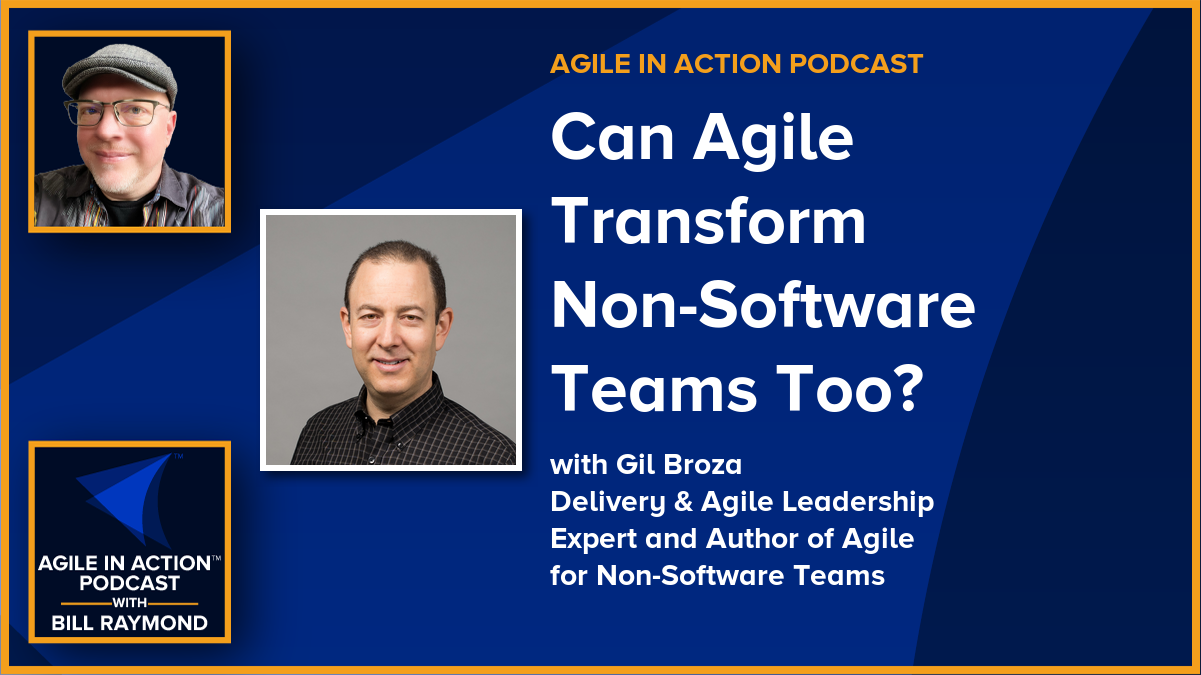
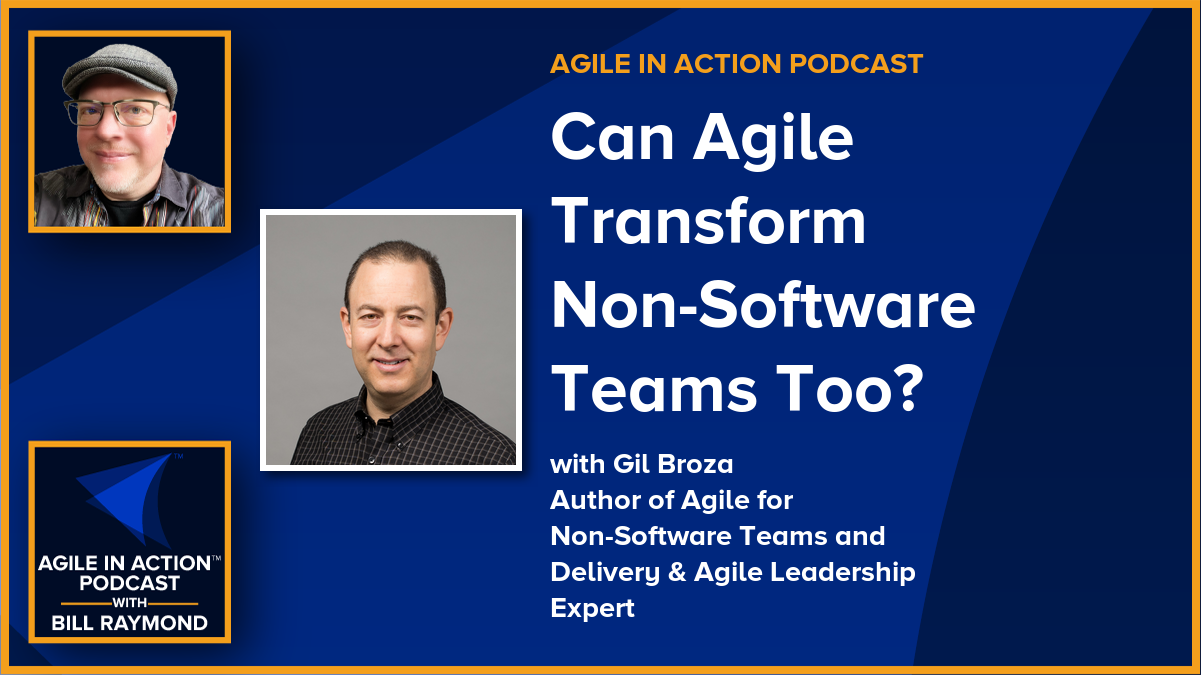
Jekyll build from Action

Changed region(s): [[0.4621, 0.6533, 0.7702, 0.9333]]

diff --git a/admin/index.html b/admin/index.html
@@ -39,7 +39,7 @@
 <h2 class="post-list-heading">Latest Agile in Action Podcast with Bill Raymond</h2>
 
 <ul class="post-list"><li><h3>Apr 16, 2024</h3><a href="/agile-in-action-podcast/2024/04/16/can-agile-transform-non-software-teams-too.html"><img src="/uploads/wf-featured-images/2024-04-16-can-agile-transform-non-software-teams-too.png" alt="Can Agile Transform Non-Software Teams Too?"></a>
-          <h3><a class="post-link" href="/agile-in-action-podcast/2024/04/16/can-agile-transform-non-software-teams-too.html">Can Agile Transform Non-Software Teams Too?</a></h3><strong>with </strong><span class="guest-name" itemprop="name">Gil Broza, Delivery &amp; Agile Leadership Expert and Author of Agile for Non-Software Teams</span><br>https://agileinaction.com/agile-in-action-podcast/2024/04/16/can-agile-transform-non-software-teams-too.html</li></ul><a href="/allpodcasts">See all podcasts >></a>
+          <h3><a class="post-link" href="/agile-in-action-podcast/2024/04/16/can-agile-transform-non-software-teams-too.html">Can Agile Transform Non-Software Teams Too?</a></h3><strong>with </strong><span class="guest-name" itemprop="name">Gil Broza, Author of Agile for Non-Software Teams and Delivery &amp; Agile Leadership Expert</span><br>https://agileinaction.com/agile-in-action-podcast/2024/04/16/can-agile-transform-non-software-teams-too.html</li></ul><a href="/allpodcasts">See all podcasts >></a>
 <p></p>
 
 <p class="rss-subscribe">subscribe <a href="https://feeds.libsyn.com/257606/rss?_ga=2.185818153.1879997348.1668636242-117077834.1667517838">via RSS</a></p>

diff --git a/agile-in-action-podcast/2024/04/16/can-agile-transform-non-software-teams-too.html b/agile-in-action-podcast/2024/04/16/can-agile-transform-non-software-teams-too.html
@@ -70,7 +70,7 @@
       <time class="dt-published" datetime="2024-04-16T00:00:00+00:00" itemprop="datePublished">Apr 16, 2024
       </time>• <span itemprop="author" itemscope itemtype="http://schema.org/Person"><span class="p-author h-card" itemprop="name">Bill Raymond</span></span></p>
   </header>
-      <h3>Gil Broza,&nbsp;Delivery & Agile Leadership Expert and Author of Agile for Non-Software Teams</h3>
+      <h3>Gil Broza,&nbsp;Author of Agile for Non-Software Teams and Delivery & Agile Leadership Expert</h3>
             <ul><li>
                     <a href="http://heardonpodcast.agilefornonsoftwareteams.com" target="blank">🔖 Your free copy of Chapter 4 from Agile for Non-Software Teams</a>
                 </li><li>
